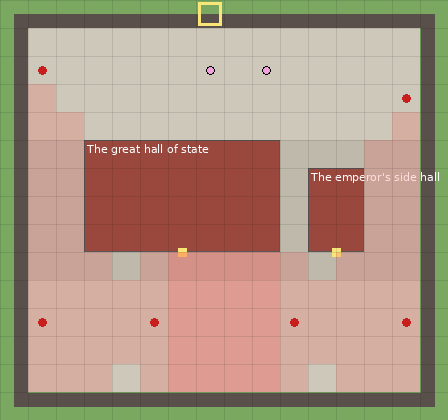
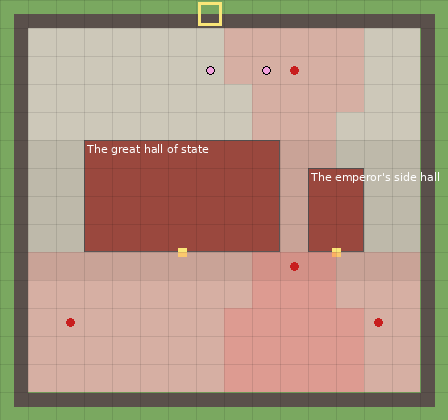
Book 2 plans: A12c and A3 bite (every way past the watchers needs timing); the check proves it
A12c: one eunuch paces the gap between the halls, the other sweeps the front
court. A3: the Chancellor's gate guard paces the ward street before Lü Bu's gate
and turns at each end; the runner stands at the east lane's mouth. The plan
check's covered_route gains must_wait: a route must exist, and none may stay
out of every watcher's sight.

Claude-Session: https://claude.ai/code/session_01WnyNSnZWTAqSWa4jGX51Ds

diff --git a/tools/tk_plans_w2.py b/tools/tk_plans_w2.py
@@ -339,7 +339,7 @@ PLANS2 = {
                     {"id": "guard-2", "kind": "folk.soldier", "at": [11, 19], "face": "N", "cone": 6, "in_beats": ["2-a7", "2-a7c", "2-a8", "2-a9", "2-a10"]},
                 ],
                 "checks": [   # play checks the generated details must pass (places-notes.md, request 6)
-                    {"check": "covered_route", "from": [13, 16], "to": [12, 5], "beats": ["2-a9"]},
+                    {"check": "covered_route", "from": [13, 16], "to": [12, 5], "beats": ["2-a9"], "must_wait": True},
                     {"check": "safe_spot", "in": ["passage-e", "xf-garden"]},
                 ],
             },
@@ -373,12 +373,12 @@ PLANS2 = {
                 ],
                 "exits": [{"to": "Chang'an", "at": [7, 0], "side": "N"}],
                 "watchers": [   # A12c: reaching the emperor unseen past Dong Zhuo's eunuchs, down a side passage
-                    {"id": "eunuch-1", "kind": "folk.official", "beat": [[1, 2], [1, 11], [5, 11]], "shape": "L", "cone": 4,
+                    {"id": "eunuch-1", "kind": "folk.official", "beat": [[2, 11], [13, 11], [2, 11]], "shape": "U", "pause": [13, 11, 2], "cone": 4,
                      "in_beats": ["2-a12c"], "seen": "eunuch", "back_to": "north-gate"},
-                    {"id": "eunuch-2", "kind": "folk.official", "beat": [[14, 3], [14, 11], [10, 11]], "shape": "L", "cone": 4,
+                    {"id": "eunuch-2", "kind": "folk.official", "beat": [[10, 2], [10, 9], [10, 2]], "shape": "U", "pause": [10, 2, 2], "cone": 4,
                      "in_beats": ["2-a12c"], "seen": "eunuch", "back_to": "north-gate"},
                 ],
-                "checks": [{"check": "covered_route", "from": [7, 1], "to": [12, 9], "beats": ["2-a12c"]},
+                "checks": [{"check": "covered_route", "from": [7, 1], "to": [12, 9], "beats": ["2-a12c"], "must_wait": True},
                            {"check": "safe_spot", "in": ["passages"]}],
             },
             # ---- rooms: each a small map of its own ----------------------------------------------------
@@ -473,7 +473,7 @@ PLANS2 = {
              "given": ["“That crown was the best work of my life. I hope it went to someone worth it.”"]},
             {"kind": "folk.soldier", "near": "xiangfu", "face": "S", "in": ["capital", "night-a2", "night-a6"],
              "say": "“The Grand Preceptor receives no one today.”",
-             "watch": {"beat": [[9, 9], [12, 9], [12, 9]], "shape": "L", "cone": 3, "in_beats": ["2-a3"],
+             "watch": {"beat": [[8, 9], [12, 9], [8, 9]], "shape": "U", "pause": [12, 9, 2], "cone": 3, "in_beats": ["2-a3"],
                        "seen": ["“Minister Wang? Out with a parcel? The Grand Preceptor likes to know what his ministers carry.”"],
                        "back_to": "market"}},
             {"kind": "folk.soldier", "near": "lubu", "in": ["capital"],
@@ -752,10 +752,10 @@ def _ch(cid, kind, at, when, until, intro, win, done, blocks=None, view=1, face=
 
 PLANS2["Chang'an"]["challengers"] = [
     # the crown errand (before A3): a runner watches Lü Bu's gate from across the ward street
-    _ch("runner", "folk.official", [11, 9], "node:a2", "node:a3",
+    _ch("runner", "folk.official", [14, 8], "node:a2", "node:a3",
         "A runner in the Chancellor's colours steps into your path. “Minister Wang, out on foot? The Grand Preceptor likes to know who walks where.”",
         "“Nothing worth reporting, then. Good day, Minister.”", "The runner watches you pass, and says nothing.",
-        blocks="a3", face="E", view=3),
+        blocks="a3", view=1),
     _ch("flyingbear", "folk.soldier", [5, 5], "node:a2", "node:a3",
         "A Flying Bear soldier lounges against the wall, dice in his fist. “Bored, old man? Play me. Lose, and you buy the wine.”",
         "“Hah! The old man bites. Go on.”", "“Not again, old man. My purse can't take it.”"),

diff --git a/tools/check_plans_w2.py b/tools/check_plans_w2.py
@@ -343,6 +343,8 @@ class Plan:
                         q.append(n)
             if b not in seen:
                 self.err(f"covered route {a}→{b}: every way passes a cell some watcher never stops seeing")
+            if chk.get("must_wait") and b in self.bfs(a, frozenset(ever)):   # too easy: a way no watcher ever sees
+                self.err(f"covered route {a}→{b}: there's a way no watcher ever sees, so the player never has to wait")
             self.covered = (a, b, len([c for c in seen if c not in ever]))
         elif chk["check"] == "sight_puzzle":   # for each way the one watcher faces, some cell the other sees and he doesn't
             byid = {w["id"]: w for w in self.p.get("watchers", [])}
